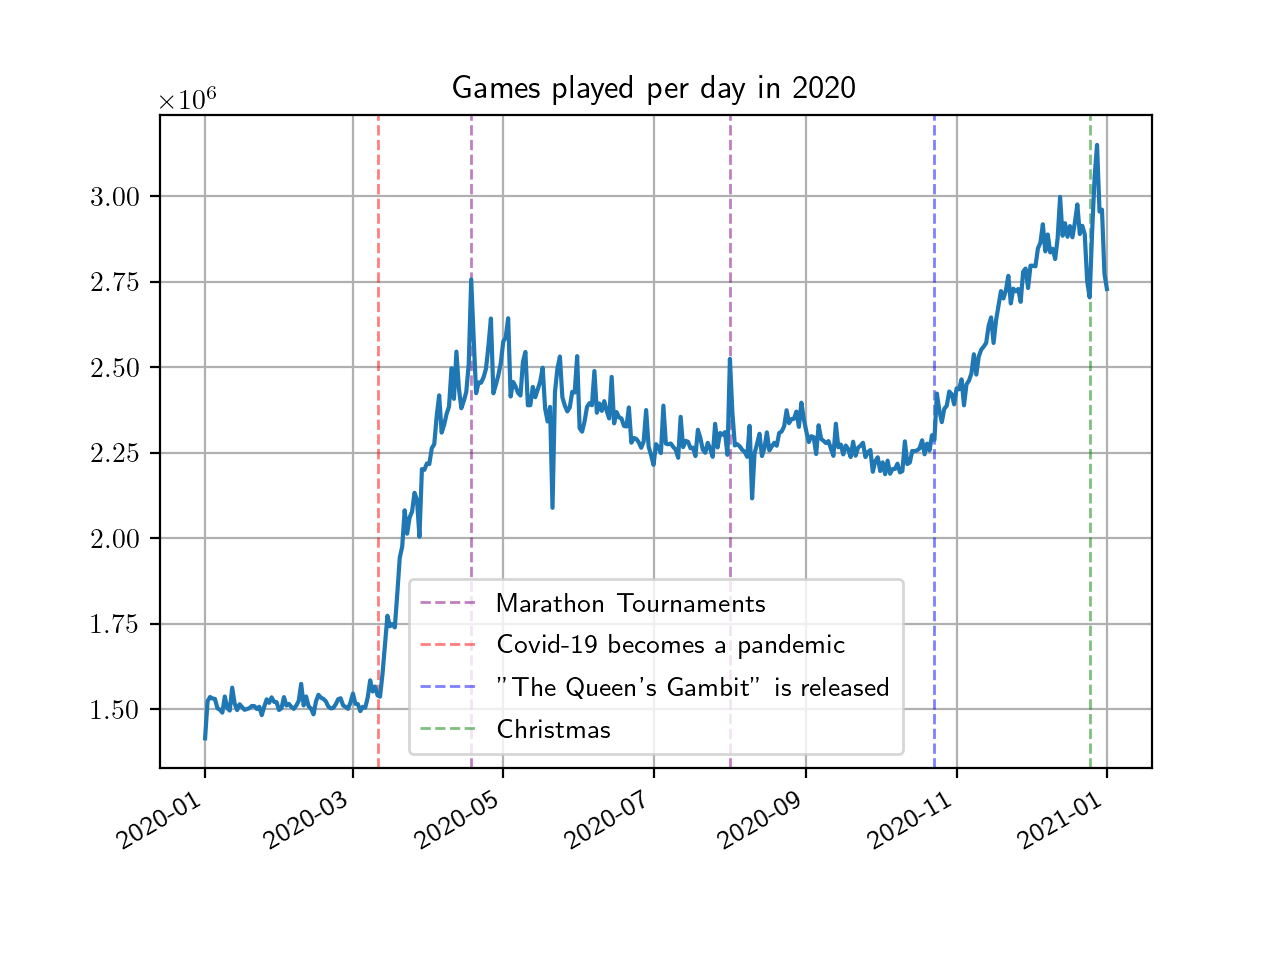
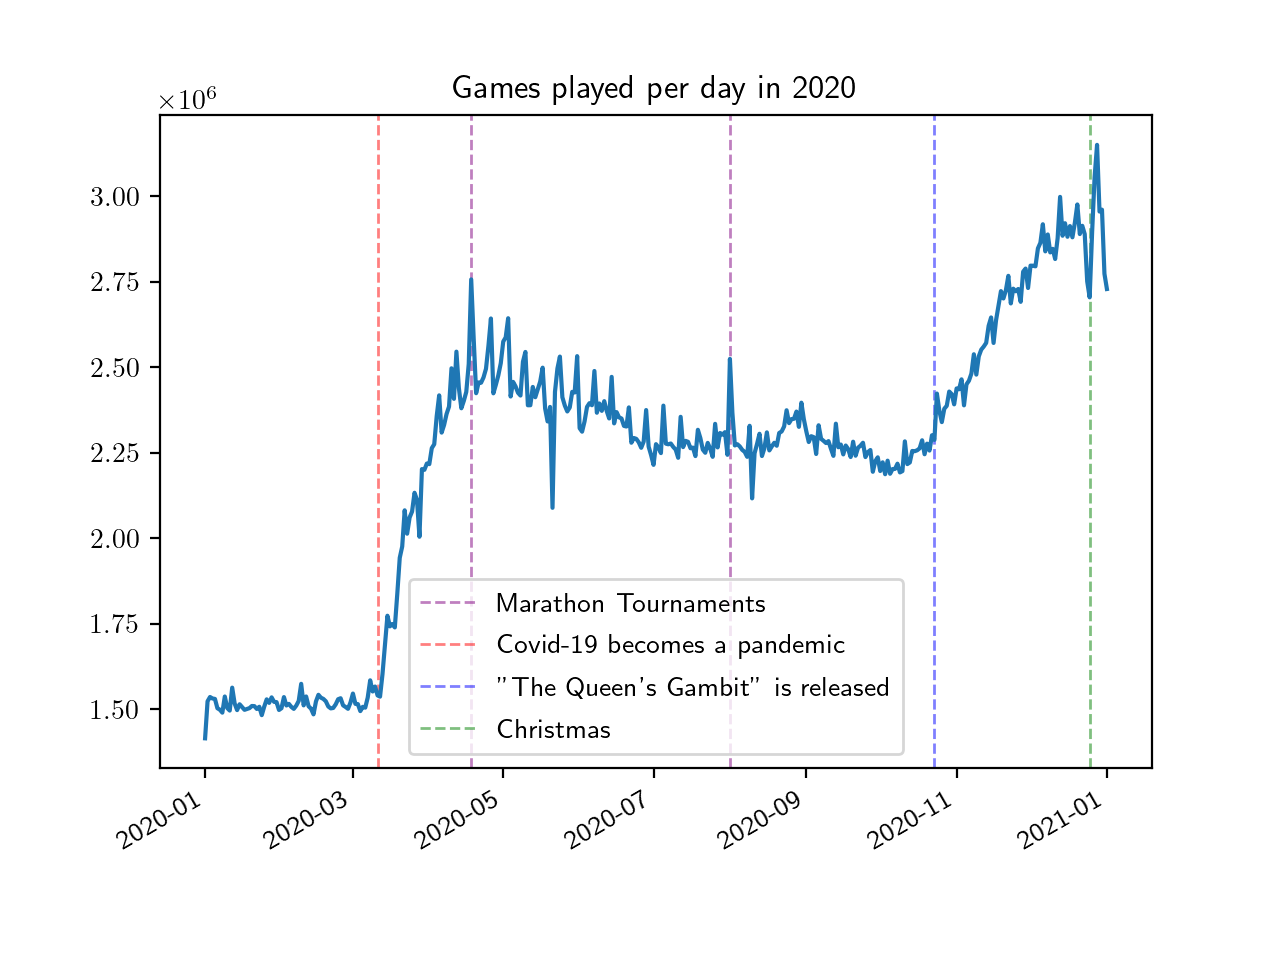
games per day graph changed

diff --git a/plot.py b/plot.py
@@ -95,7 +95,7 @@ def plotgeneralpopularity(played, dates, picname, start=datetime.date(year=2020,
     ax.plot(datestoplot, playedtoplot)
     plt.title('Games played per day in 2020')
     #plt.yscale('log')
-    plt.grid()
+    #plt.grid()
     plt.legend()
     plt.savefig(picname, dpi=200)
     if show:
